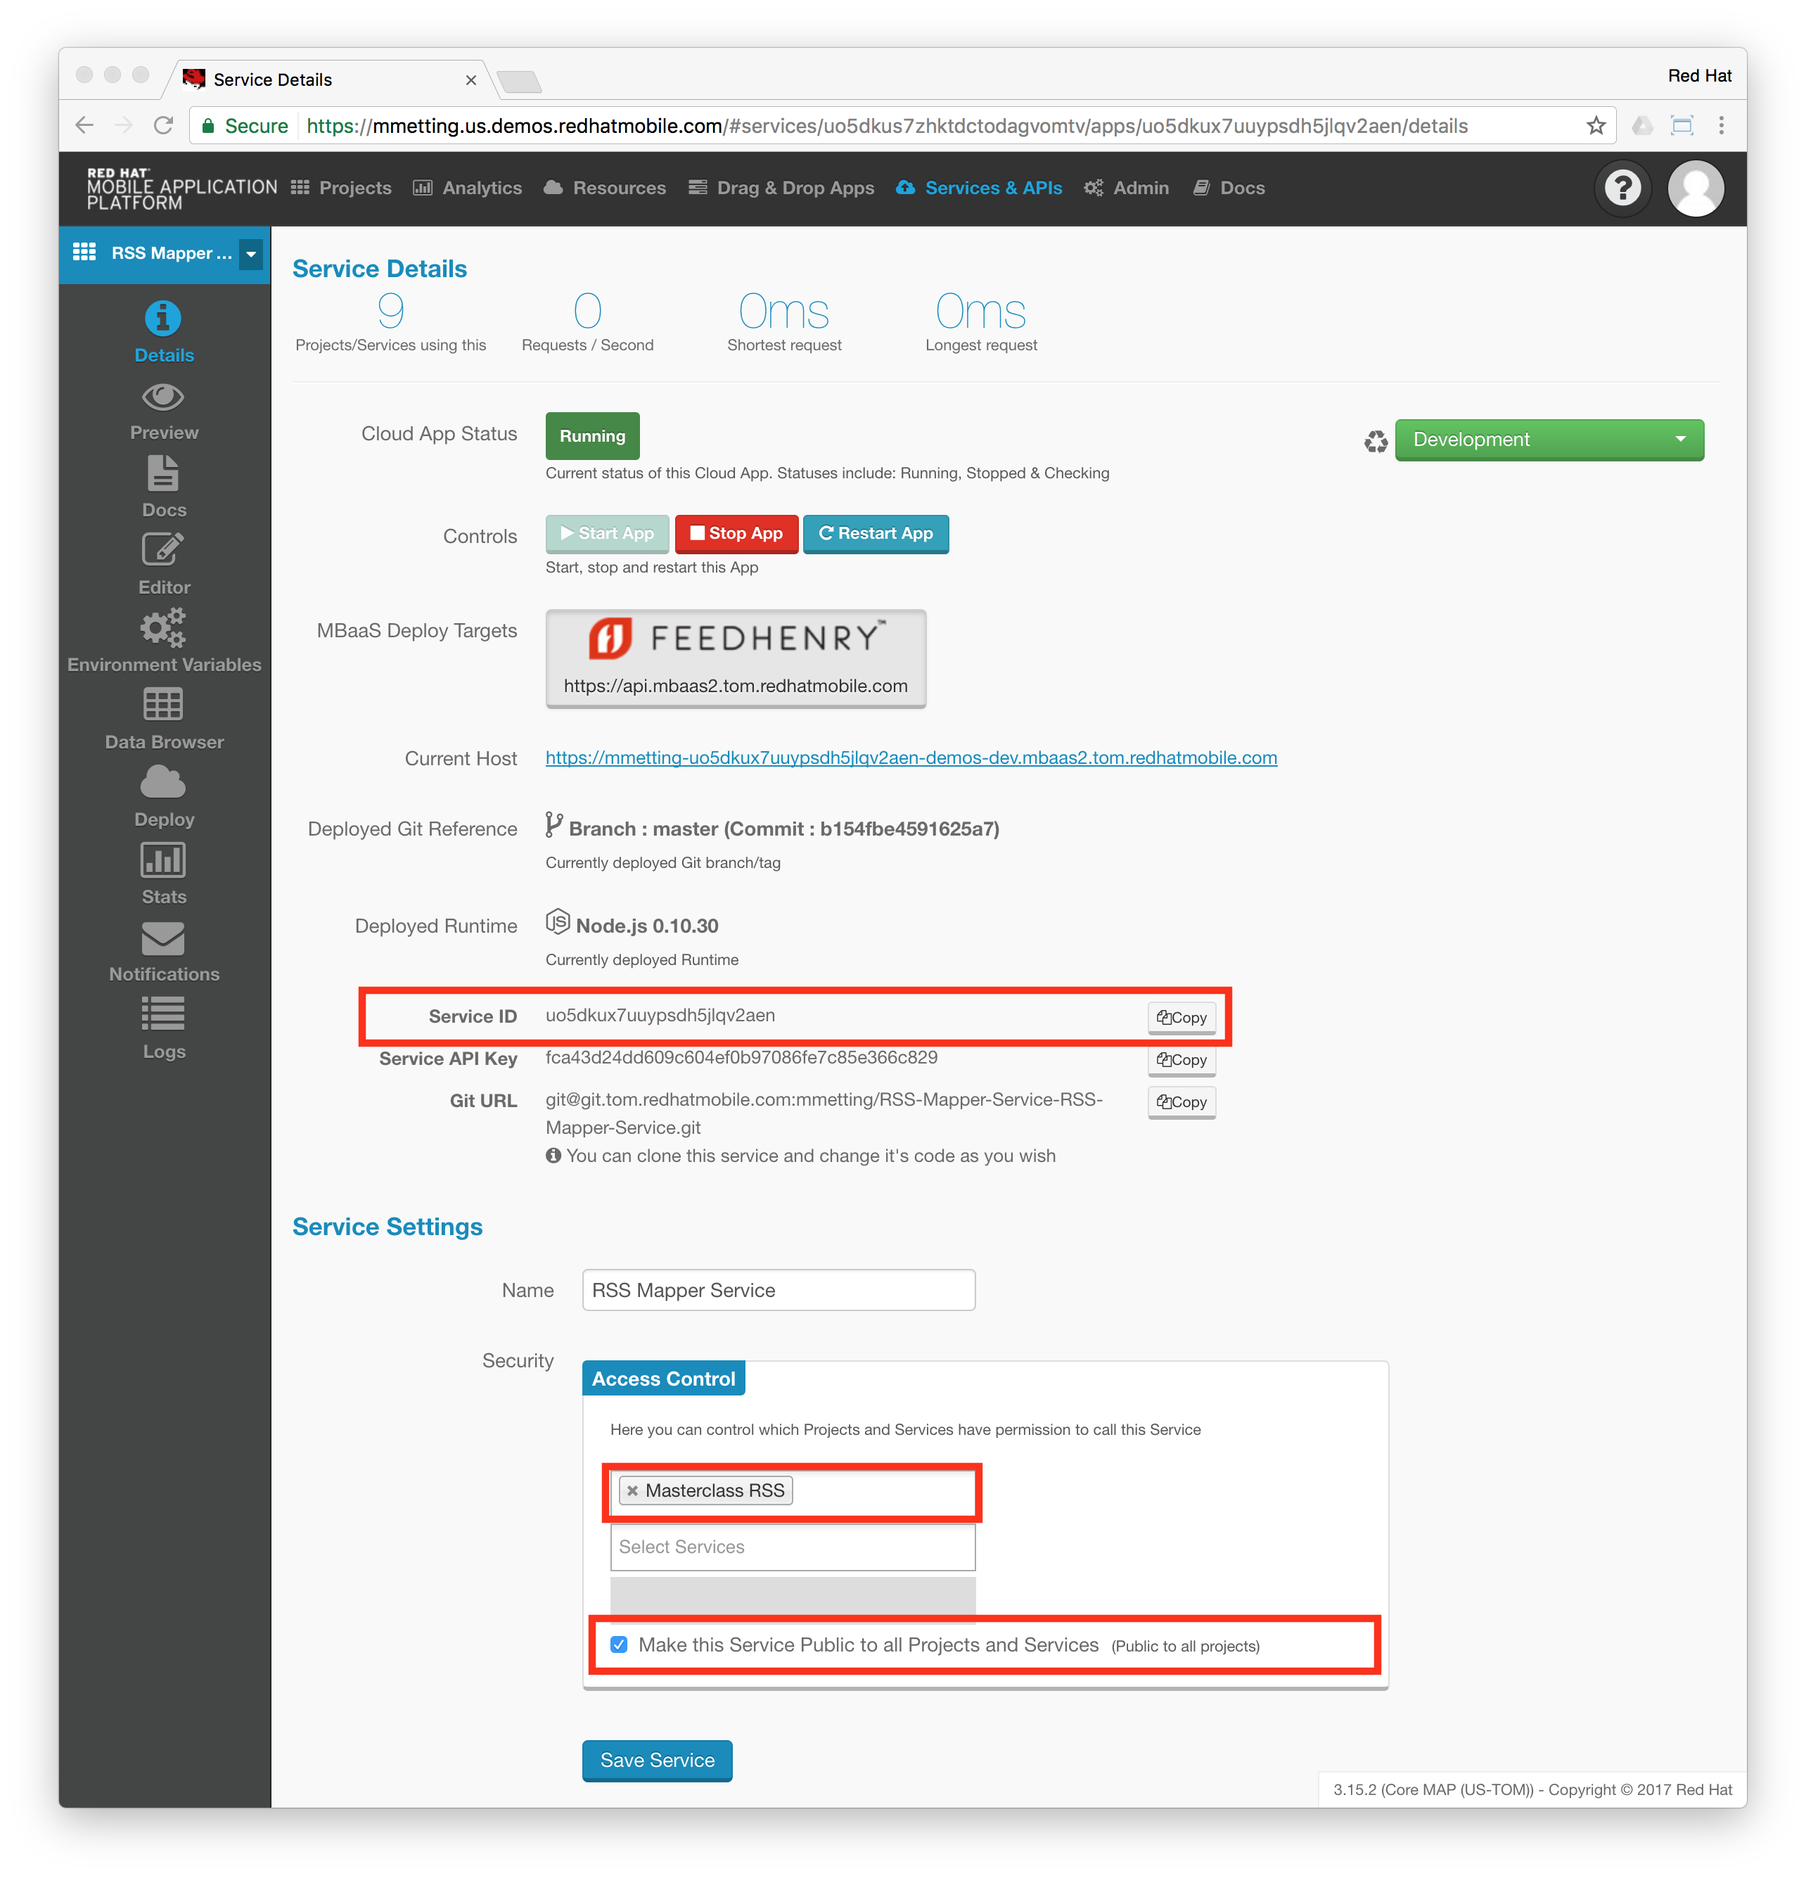
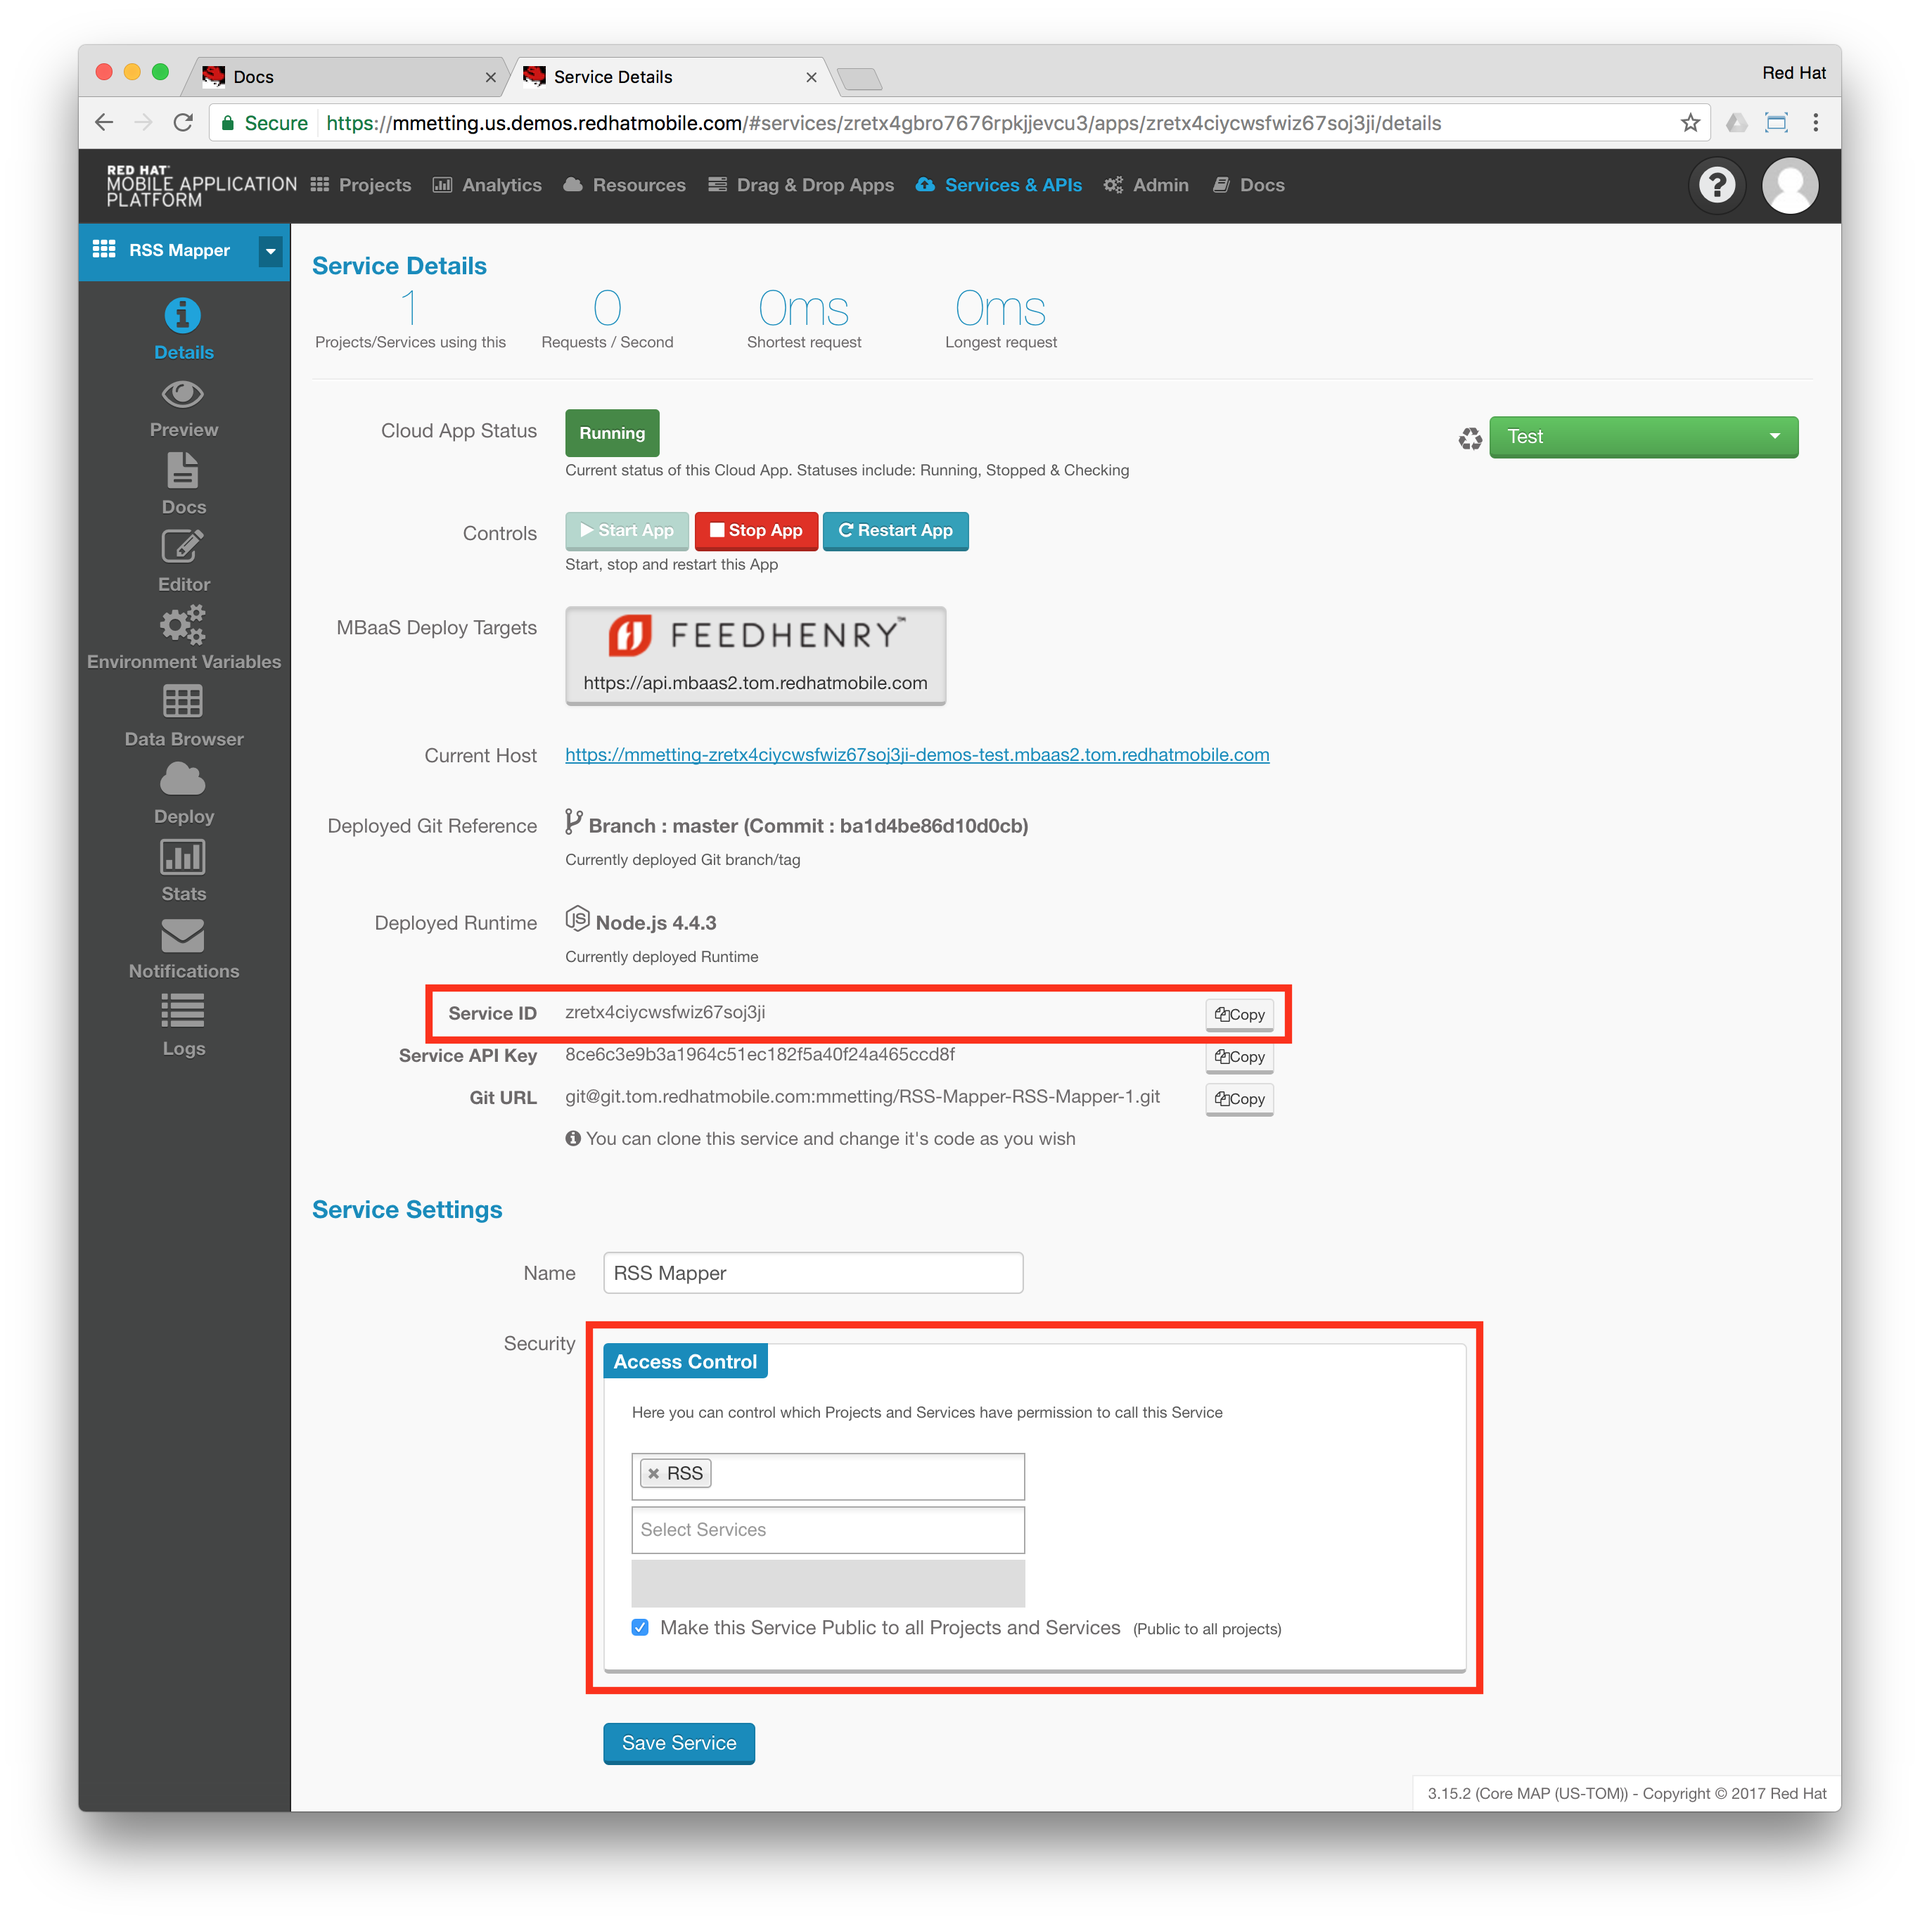
Changed service id screenshot

diff --git a/README.md b/README.md
@@ -17,8 +17,10 @@ Additionally, the Cloud Application has access to all server-side APIs exposed b
 
 ## Prerequisites
 The following two MBaaS Service projects would need to be deployed to your RHMAP domain:
-- [Connector Service](https://github.com/mmetting/RSS-Reader-Demo-RSS-Connector)
-- [Mapping Service](https://github.com/mmetting/RSS-Reader-Demo-Mapper-Service)
+1. [Connector Service](https://github.com/mmetting/RSS-Reader-Demo-RSS-Connector)
+2. [Mapping Service](https://github.com/mmetting/RSS-Reader-Demo-Mapper-Service)
+
+> Start with importing the Connector Service!
 
 > Please import, configure and deploy them first, before you go ahead and create the Cloud Application, as the Cloud App would use the above mentioned [Mapping Service](https://github.com/mmetting/RSS-Reader-Demo-Mapper-Service).
 
@@ -51,7 +53,7 @@ Open the file `lib/feeds.js` and change the `fh.service()`call:
 ```
 ...
 fh.service({
-    "guid": "uo5dkux7uuypsdh5jlqv2aen", // <- this service uuid would need to match your deployed MBaaS Service
+    "guid": "zretx4ciycwsfwiz67soj3ji", // <- this service uuid would need to match your deployed MBaaS Service
     "path": "/feeds",
     "method": "GET",
     "headers": {
